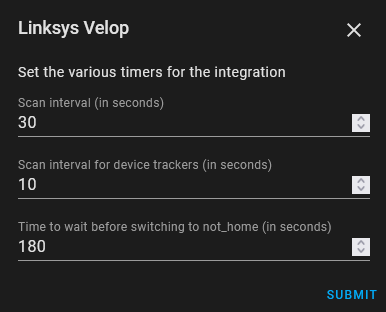
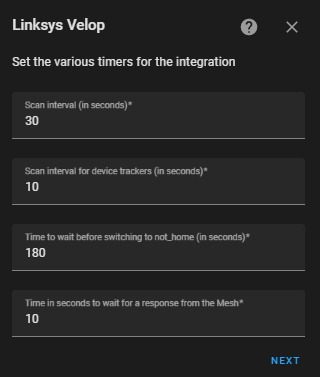
update README

diff --git a/README.md b/README.md
@@ -210,11 +210,13 @@ node is changed.
 
 ### Services
 
-Services are available for the following: -
+The following services are available.  Each service is described in metadata 
+so paramters are described in the Home Assistant Services page. 
 
-- Start a Speedtest &ast;
-- Initiate a check for firmware updates for the nodes &ast;
-- Delete a machine from the device list
+- Check for Updates
+- Delete Device
+- Execute Speedtest &ast;
+- Reboot Node
 
 > &ast; these are considered long-running tasks. When the binary sensors spot 
   these tasks are running an additional timer is set up that polls every 
@@ -249,6 +251,8 @@ It is possible to configure the following options for the integration.
   trackers, default `10s`
 - `Consider Home Period`: the time to wait before considering a device away 
   after it notifies of becoming disconnected, default `180s`
+- `Response Timeout`: the number of seconds to wait for a response from 
+  an individual request to the API
 
 ### Device Trackers
 
@@ -263,8 +267,6 @@ It is possible to configure the following options for the integration.
 This section details the options that cannot be configured in the UI but are 
 still available of you configure them in the underlying HASS config files.
 
-* `api_request_timeout`: the number of seconds to wait for a response from 
-  an individual request to the API
 * `node_images`: the path to the folder location containing the images to 
   use for nodes. This is currently used in the card and also for the 
   `update` entity. e.g. `/local/velop_nodes`
